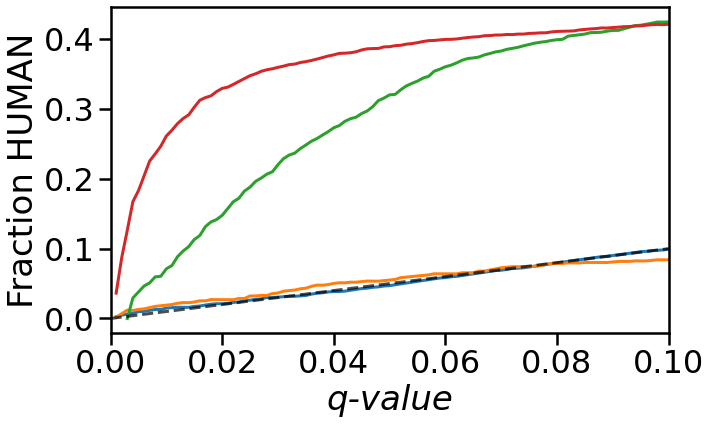
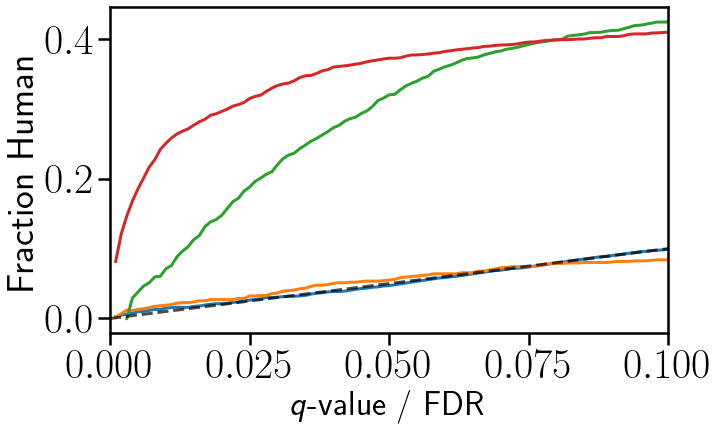
update docs

diff --git a/doc/benchmark/benchmark.tex b/doc/benchmark/benchmark.tex
@@ -404,14 +404,14 @@ We subsequently set out to test the statistical calibration of the different sum
         %\includegraphics[width=0.3\linewidth]{../../result/report_plots/de_human_vs_de_specie.png} & 
         %\includegraphics[width=0.3\linewidth]{../../result/report_plots/de_human_vs_de_specie.png} \\ 
         %A & B
-        A \includegraphics[width=0.5\linewidth]{../../result/report_plots/osw_FP_DE_yeast.png} & &%\includegraphics[width=0.3\linewidth]{} & 
-        D \includegraphics[width=0.5\linewidth]{../../result/report_plots/diann_FP_DE_yeast.png} & \\%\includegraphics[width=0.3\linewidth]{} \\ 
-        B \includegraphics[width=0.5\linewidth]{../../result/report_plots/osw_FP_DE_ecoli.png} & &%\includegraphics[width=0.3\linewidth]{} & 
-        E \includegraphics[width=0.5\linewidth]{../../result/report_plots/diann_FP_DE_ecoli.png} & \\%\includegraphics[width=0.3\linewidth]{} \\ 
-        C \includegraphics[width=0.5\linewidth]{../../result/report_plots/osw_FP_DE_all.png} & &%\includegraphics[width=0.3\linewidth]{} & 
-        F \includegraphics[width=0.5\linewidth]{../../result/report_plots/diann_FP_DE_all.png} & \\%\includegraphics[width=0.3\linewidth]{} \\ 
+%        A \includegraphics[width=0.5\linewidth]{../../result/report_plots/osw_FP_DE_yeast.png} & &%\includegraphics[width=0.3\linewidth]{} & 
+%        D \includegraphics[width=0.5\linewidth]{../../result/report_plots/diann_FP_DE_yeast.png} & \\%\includegraphics[width=0.3\linewidth]{} \\ 
+%        B \includegraphics[width=0.5\linewidth]{../../result/report_plots/osw_FP_DE_ecoli.png} & &%\includegraphics[width=0.3\linewidth]{} & 
+%        E \includegraphics[width=0.5\linewidth]{../../result/report_plots/diann_FP_DE_ecoli.png} & \\%\includegraphics[width=0.3\linewidth]{} \\ 
+        A \includegraphics[width=0.5\linewidth]{../../result/report_plots/osw_FP_DE_all.png} & &%\includegraphics[width=0.3\linewidth]{} & 
+        B \includegraphics[width=0.5\linewidth]{../../result/report_plots/diann_FP_DE_all.png} & \\%\includegraphics[width=0.3\linewidth]{} \\ 
     \end{tabular}
-  \caption{{\bf Comparison of calibration of the compared summarization methods.} We plotted the fraction of reported differentially abundant HeLa proteins as a function of $q$~value treshhold for (A-C) DDA generated spectral libraries and (D-F) DIA-Umpire geneated Pseudo spectra. \label{fig:frac_hela_vs_fdr}}
+  \caption{{\bf Comparison of calibration of the compared summarization methods.} We plotted the fraction of reported differentially abundant HeLa proteins as a function of $q$~value treshhold for (A) DDA generated spectral libraries and (B) DIA-Umpire geneated Pseudo spectra. The multiple test correction is performed with q-value for Triqler and Top3, while Benjamini-Hochberger [Add citation] is used for MsStats and MSqRobSum. \label{fig:frac_hela_vs_fdr}}
 \end{figure}
 
 
@@ -430,7 +430,7 @@ We subsequently set out to test the statistical calibration of the different sum
         D  & &%\includegraphics[width=0.3\linewidth]{} & 
         H \includegraphics[width=0.35\linewidth]{../../result/report_plots/diann_scatter_top3.png} & %\includegraphics[width=0.3\linewidth]{} 
     \end{tabular}
-    \todo[inline]{Make scatter for OSW as well, and how to do with fig sizing?. Change the coloring and order of series so that they are coinsistent through the panels.}
+    %\todo[inline]{Make scatter for OSW as well, and how to do with fig sizing?. Change the coloring and order of series so that they are coinsistent through the panels.}
     \caption{{\bf Comparison of reported fold change distributions.} We used peptide data from (A-D) DDA spectrum libraries and (E-H) psedo spectra as generated by 
     (A,E) Triqler, (B,F) MSqRobSum, (C,G) MSstats, and (D,H) Top-3. \label{fig:fc_histogram}}
 \end{figure}
